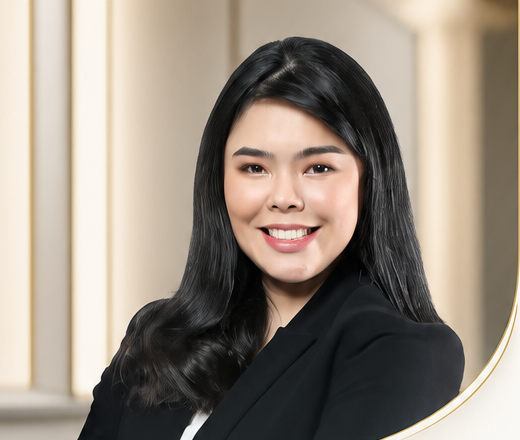
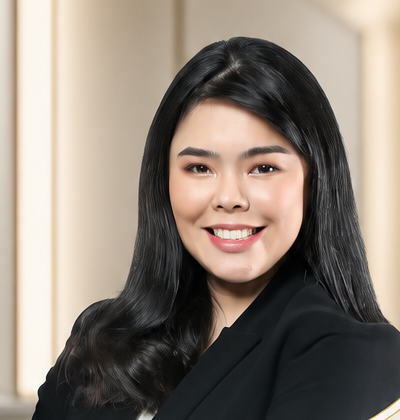
Recrop Airada's portrait for better composition
Better-centered crop with proper headroom, and trimmed the edges to
remove a stray gold arc line left over from the source profile card.

diff --git a/site/src/components/Team/Team.css b/site/src/components/Team/Team.css
@@ -63,7 +63,7 @@
   width: 100%;
   height: 100%;
   object-fit: cover;
-  object-position: 42% 22%;
+  object-position: center 18%;
 }
 
 .founder__portrait-inner::after {
